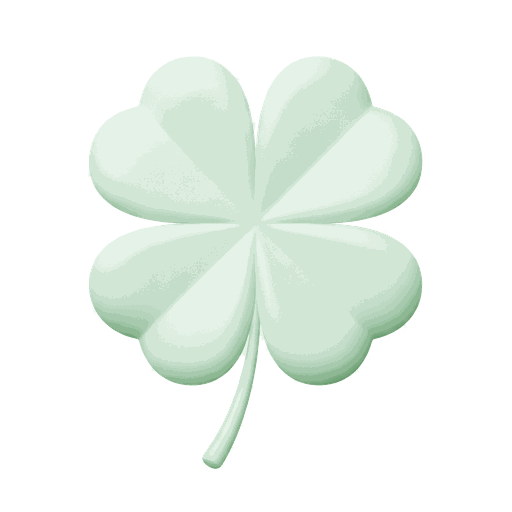
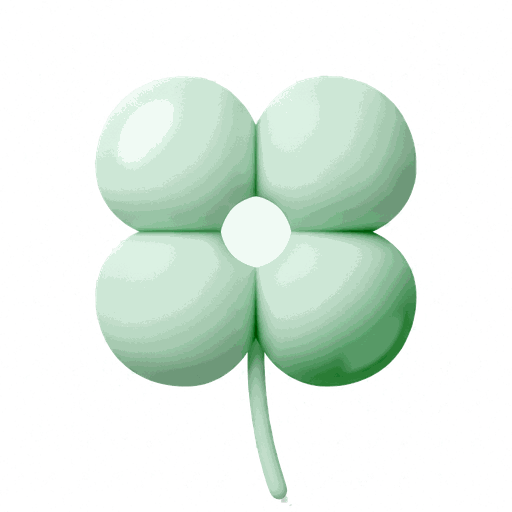
㉛ 클로버 — 성공 그림 교체 · 칸 수만큼 네잎 · 가장자리 스와이프 차단 (REQ-15·16·17)
- REQ-15: lucky.v1.png 을 2차 후보 톤 조정본(43,404B)으로 교체. 게임 합계 82,720B
- REQ-16 §1: 네잎 = 담은 칸 수 − 1. 화면이 gained 를 신고하고 서버는
  MAX_GAIN_PER_CLEAR(4) × 인정 횟수로 자른다. 「10」 밑에 +n. gained 가 없는
  옛 화면은 조합당 1장으로 친다
- REQ-17: 판이 도는 동안 좌우 24px 에서 시작한 touchstart 를 삼킨다(passive:false).
  가드는 화면 진입에서 arm, pushState 실패는 console.warn 으로 드러낸다.
  REQ-16 §2(진단 띠·여유분 2칸)는 REQ-17 이 대체해 넣지 않았다

diff --git a/public/games/clover/game.js b/public/games/clover/game.js
@@ -84,6 +84,7 @@ const play = {
   segMs: 0,        // 이번 구간 길이
   total: 0,        // 서버가 들고 있는 누적 점수
   seg: 0,          // 이번 구간에 맞춘 횟수
+  gain: 0,         // 이번 구간에 얻은 네잎 — 조합마다 담은 칸 수 − 1 (REQ-16)
   comboBest: 0,
   combo: 0,
   lastClear: 0,
@@ -454,7 +455,11 @@ function resolve() {
   play.ptr = null;
   syncTray();
 
-  play.seg += 1; // 3칸이든 5칸이든 **1점** — 화면의 그림과 숫자를 맞춥니다
+  // 2칸 1장 · 3칸 2장 · 4칸 3장 · 5칸 4장(REQ-16). 늘 1장이면 작은 수 가중으로
+  // 3~4칸 조합을 기본으로 만들어 놓고도 2칸만 찾는 편이 이득이 됩니다.
+  const gain = gone.length - 1;
+  play.seg += 1;
+  play.gain += gain;
   syncHud();
 
   // ① 고른 클로버들이 가운데 한 점으로 모입니다
@@ -483,7 +488,7 @@ function resolve() {
   });
 
   // ② 한 덩이로 뭉친 네잎이 솟아 점수로 날아갑니다
-  if (drawable) flyMerged(cx, cy, cs);
+  if (drawable) flyMerged(cx, cy, cs, gain);
 
   // ③ 판은 기다리지 않습니다
   setTimeout(() => {
@@ -506,12 +511,12 @@ function resolve() {
 }
 
 /** 합쳐진 「10」 — 판 밖으로 나가야 해서 body 에 붙입니다 */
-function flyMerged(cx, cy, cs) {
+function flyMerged(cx, cy, cs, gain) {
   const size = Math.max(cs * 2.2, 78);
   const node = document.createElement("div");
   node.className = "cv-merge";
   node.style.cssText = `left:${cx}px;top:${cy}px;width:${size}px;height:${size}px;font-size:${size}px`;
-  node.innerHTML = `<div class="cv-merge__b">${STEM}<img class="cv-merge__head" src="${IMG_LUCKY}" alt=""><b>10</b></div>`;
+  node.innerHTML = `<div class="cv-merge__b">${STEM}<img class="cv-merge__head" src="${IMG_LUCKY}" alt=""><b>10</b><i class="cv-merge__gain">+${gain}</i></div>`;
   document.body.append(node);
 
   const tgt = $("#cvScore").getBoundingClientRect();
@@ -648,7 +653,7 @@ function syncTray() {
 }
 
 function syncHud() {
-  $("#cvScore").textContent = String(play.total + play.seg);
+  $("#cvScore").textContent = String(play.total + play.gain);
   const hot = performance.now() - play.lastClear < COMBO_MS && play.combo > 1;
   $("#cvCombo").textContent = hot ? `${play.combo}번째` : "—";
   $("#cvCombo").classList.toggle("hud__value--accent", hot);
@@ -733,6 +738,29 @@ const backGuard = createBackGuard({
   onLeave: leaveNow,
 });
 
+/**
+ * 가장자리에서 시작한 터치를 삼킵니다(REQ-17 §1) — 판이 도는 동안만.
+ *
+ * 위 가드는 `popstate` 로 잡는데, 아이폰 16 Pro Safari 에서는 **판이 도는 중에도 확인창이
+ * 한 번도 안 떴습니다**(2026-09-09 Master 확인). 제스처가 `popstate` 를 거치지 않는다는
+ * 뜻이라, 그 앞에서 막을 수 있는 수단이 이것 하나 남았습니다.
+ *
+ * ⚠ **iOS 에서 먹는지는 확인하지 못했습니다** — Chromium 은 Safari 의 가장자리 제스처를
+ *    재현하지 못합니다. 실기기에서 ① 스와이프가 막히는가 ② **첫 열·끝 열 드래그가 살아
+ *    있는가**를 함께 봐야 합니다. 조작이 죽으면 밴드를 12px 로 좁히거나 이것을 뺍니다.
+ * ⚠ `passive: false` 가 아니면 `preventDefault` 가 아무 일도 하지 않습니다.
+ *    드래그는 `pointerdown` + `setPointerCapture` 가 먼저 잡으므로 여기서 막히지 않습니다.
+ */
+const EDGE = 24;
+addEventListener("touchstart", (e) => {
+  if (!play.running) return;
+  const t = e.touches?.[0];
+  if (!t) return;
+  if (t.clientX <= EDGE || t.clientX >= innerWidth - EDGE) {
+    if (e.cancelable) e.preventDefault();
+  }
+}, { passive: false });
+
 $("#cvExit").addEventListener("click", askExit);
 $("#cvExitStay").addEventListener("click", () => { $("#cvExitAsk").hidden = true; });
 $("#cvExitGo").addEventListener("click", () => {
@@ -751,6 +779,9 @@ requestAnimationFrame(drawFx);
 
 async function loadReady() {
   stopPlay();
+  // 화면에 들어오자마자 켭니다(REQ-17 §2-2). 판 시작에서 켜면 시작 화면에서 민 것을
+  // 못 잡습니다. 붙잡는 판단은 isPlaying 이라 판이 안 돌 때는 그대로 내보냅니다.
+  backGuard.arm();
   showScreen("ready");
   document.body.classList.remove("cv-playing");
   clearRewards();
@@ -793,6 +824,7 @@ function startSegment(round) {
 
   play.total = round.score ?? 0;
   play.seg = 0;
+  play.gain = 0;
   play.segMs = round.play_ms ?? 90000;
 
   if (!round.resumed) {
@@ -824,8 +856,6 @@ function startSegment(round) {
 
   syncTray();
   syncHud();
-
-  backGuard.arm(); // 판이 도는 동안만 뒤로가기를 붙잡습니다
 
   play.clock?.stop();
   play.clock = countdown({
@@ -865,13 +895,14 @@ async function endSegment() {
 
   await run.answer({
     cleared: play.seg,
+    gained: play.gain,
     combo_best: play.comboBest,
     played_ms: play.segMs,
   });
 }
 
 function pauseText() {
-  const found = play.total + play.seg;
+  const found = play.total + play.gain;
   return {
     sub: found > 0
       ? "이어하면 지금 판을 그대로 15초 더 찾습니다 — 찾은 네잎은 그대로 남습니다"

diff --git a/src/games/arcade/clover.js b/src/games/arcade/clover.js
@@ -2,7 +2,8 @@
  * ㉛ 행운의 클로버 — ENDLESS
  *
  * 붙어 있는 클로버를 손가락으로 쓸어 담아 합을 10으로 맞춥니다. 맞는 순간 담은 것들이
- * 한 덩이로 합쳐져 네잎 클로버 한 장이 됩니다. 90초 동안 몇 장을 찾는지가 기록입니다.
+ * 한 덩이로 합쳐져 네잎 클로버가 됩니다 — **담은 칸 수 − 1 장**(2칸 1장 … 5칸 4장, REQ-16).
+ * 90초 동안 몇 장을 찾는지가 기록입니다.
  * 기획: ../reward-minigame-research/plans/2026-09-04/PLAN-38_열까지.md · docs/clover-game.md
  *
  * ── 이 spec 이 하는 일은 다른 게임과 다릅니다 ─────────────────────────────
@@ -11,7 +12,7 @@
  * 네트워크 왕복이 그대로 얹힙니다**(기획 28절이 640ms → 278ms 로 줄여 놓은 값입니다).
  *
  * 그래서 REQ-10 결정 ㉒ 로 갑니다 — **서버는 첫 판을 시드하고, 판정은 화면이 하고,
- * 끝에 「10을 몇 번 맞췄는가」만 신고받습니다.**
+ * 끝에 「10을 몇 번 맞췄는가」와 「네잎을 몇 장 얻었는가」만 신고받습니다.**
  *
  * ⚠ **이 구조가 지금 안전한 이유는 「보상이 없어서」입니다.** 점수를 위조해서 얻을 수
  *    있는 것이 순위 표시뿐입니다. 보상을 붙이는 날(SYS-05) **서버가 한 수마다 판정하거나
@@ -128,7 +129,7 @@ function initExt(meta) {
   meta.ext = {
     ...(meta.ext ?? {}),
     board: makeBoard(),
-    score: 0, // 찾은 네잎 = 10을 맞춘 횟수
+    score: 0, // 찾은 네잎 — 조합마다 담은 칸 수 − 1 장
     segments: 0, // 90초 한 판 + 이어하기 15초들
     combo_best: 0,
     played_ms: 0,
@@ -196,7 +197,11 @@ export const spec = {
   },
 
   /**
-   * 한 구간이 끝났습니다. answer = `{ cleared, combo_best, played_ms }`
+   * 한 구간이 끝났습니다. answer = `{ cleared, gained, combo_best, played_ms }`
+   *
+   * `cleared` 는 10을 맞춘 **횟수**, `gained` 는 얻은 **네잎 장수**입니다. 둘을 나눈 이유는
+   * 점수가 칸 수에 따라 달라서입니다(REQ-16) — 길게 이을수록 많이 받아야 3~4칸 조합을
+   * 찾을 이유가 생깁니다. 상한도 두 겹입니다: 횟수는 초당 2회, 장수는 한 조합당 4장.
    *
    * **항상 fatal 입니다** — 시간이 다한 것은 실패가 아니라 소진이고, 소진이라야
    * 「광고 보고 15초 더 찾기」 자리가 열립니다(⑳ 슥슥 긁기와 같은 처리).
@@ -210,12 +215,22 @@ export const spec = {
     const cap = clearCap(roundNo, sinceIssuedMs);
     const cleared = Math.min(reported, cap);
 
+    // 장수 — 한 조합이 줄 수 있는 최대는 MAX_GAIN_PER_CLEAR(5칸 − 1) 장입니다.
+    // `gained` 가 없으면 그 조합들을 전부 2칸으로 칩니다 — 이 필드를 모르는 옛 화면이
+    // 캐시에 남아 있어도 점수가 0 이 되지 않습니다.
+    const graw = a.gained === undefined ? cleared : Number(a.gained);
+    const greported = Number.isInteger(graw) && graw >= 0 ? graw : 0;
+    const gainCap = cleared * C.MAX_GAIN_PER_CLEAR;
+    const gained = Math.min(greported, gainCap);
+    const overGain = greported > gainCap;
+
     // 숫자가 아니거나 사람 손으로 불가능한 값이면 그 판을 이상치로 표시합니다.
     // 판을 끊지는 않습니다 — 끊으면 통신이 튀었을 때 정상 이용자의 판이 날아갑니다.
-    const suspect = !Number.isInteger(raw) || raw < 0 || reported > cap;
-    if (reported > cap) ext.capped = (ext.capped ?? 0) + 1;
+    const suspect = !Number.isInteger(raw) || raw < 0 || reported > cap
+      || !Number.isInteger(graw) || graw < 0 || overGain;
+    if (reported > cap || overGain) ext.capped = (ext.capped ?? 0) + 1;
 
-    ext.score = (ext.score ?? 0) + cleared;
+    ext.score = (ext.score ?? 0) + gained;
     ext.segments = (ext.segments ?? 0) + 1;
     ext.played_ms = (ext.played_ms ?? 0) + segmentMs(roundNo);
 
@@ -230,7 +245,8 @@ export const spec = {
       suspect,
       data: {
         cleared,
-        capped: reported > cap,
+        gained,
+        capped: reported > cap || overGain,
         ...viewOf(ext),
       },
     };

diff --git a/public/shared/backguard.js b/public/shared/backguard.js
@@ -6,6 +6,11 @@
  * 끄는 게임에서는 판 위를 쓸어 담는 동작이 곧 그 제스처가 됩니다 — 아이폰 16 Pro 에서
  * 실제로 나갔습니다(2026-09-08).
  *
+ * ⚠ **iOS 가장자리 스와이프는 이 가드로 못 잡습니다** — 판이 도는 중에도 확인창이 한 번도
+ *    뜨지 않았습니다(2026-09-09 · 아이폰 16 Pro). 제스처가 `popstate` 를 거치지 않습니다.
+ *    그 대책은 게임 쪽 가장자리 `touchstart` 차단입니다(㉛ `game.js`). 이 가드는 **브라우저
+ *    뒤로가기 버튼용으로 남깁니다**(REQ-17 §2-1).
+ *
  * ⚠ **제스처 자체는 못 막습니다.** 좌우 여백을 24px 로 넓혀 가장자리 띠를 피해 보았지만
  *    실기기에서 그대로 넘어갔습니다. 그래서 **가더라도 페이지를 안 떠나게** 합니다 —
  *    방문 기록을 한 칸 밀어 넣어 두고, 뒤로가기가 오면 다시 밀어 넣습니다.
@@ -36,9 +41,11 @@ export function createBackGuard({ isPlaying, onCaught, onLeave }) {
     try {
       history.pushState({ cvGuard: 1 }, "");
       return true;
-    } catch {
+    } catch (e) {
       // 기록을 못 밀어 넣는 환경이면 가드를 켜지 않습니다 — 켠 척하면
       // 뒤로가기를 잡지도 못하면서 나가기만 막는 최악이 됩니다.
+      // 다만 **조용히 꺼지면 안 됩니다** — 같은 증상이 다시 나오면 여기부터 봅니다(REQ-17 §2-3).
+      console.warn("[backguard] 뒤로가기 가드를 켜지 못했습니다:", e);
       return false;
     }
   };
@@ -56,7 +63,7 @@ export function createBackGuard({ isPlaying, onCaught, onLeave }) {
   });
 
   return {
-    /** 판 시작에서 부릅니다. 두 번 불러도 기록은 한 칸만 쌓입니다 */
+    /** 화면에 들어올 때 부릅니다. 두 번 불러도 기록은 한 칸만 쌓입니다 */
     arm() {
       if (armed) return;
       armed = push();

diff --git a/public/shared/base.css b/public/shared/base.css
@@ -3767,6 +3767,13 @@ a.hubcard:focus-visible { outline: 2px solid var(--t); outline-offset: 2px; }
     .02em .02em 0 #12503f, -.02em .02em 0 #12503f, .02em -.02em 0 #12503f, -.02em -.02em 0 #12503f,
     0 .04em .05em rgba(0, 0, 0, .5);
 }
+/* 「10」 밑의 +n — 몇 장을 얻었는지 그 자리에서 보여야 「길게 이으면 더 준다」가 그림으로 전해집니다(REQ-16) */
+.cv-merge__gain {
+  position: absolute; left: 50%; top: 76%; transform: translateX(-50%); z-index: 4;
+  padding: .055em .13em; border-radius: 999px; background: var(--mint); color: #0b3018;
+  font-family: var(--mono); font-weight: 700; font-style: normal; font-size: .155em; line-height: 1.25;
+  letter-spacing: -.01em; white-space: nowrap; box-shadow: 0 .02em .05em rgba(0, 0, 0, .45);
+}
 
 /* ── 배너 광고 자리 ──────────────────────────────────────── */
 .cv-banner {

diff --git a/public/games/clover/index.html b/public/games/clover/index.html
@@ -41,7 +41,8 @@
           <!-- 설명은 질문 하나에 한 줄씩. 줄서기 4분·엄지 하나인 사람이 훑어 읽습니다 -->
           <p class="footnote">
             붙어 있는 클로버를 손가락으로 <b>쓸어 담습니다</b>.<br>
-            담은 수의 합이 딱 <b>10</b>이 되면 네잎 클로버 한 장이 나옵니다.<br>
+            담은 수의 합이 딱 <b>10</b>이 되면 네잎 클로버가 나옵니다.<br>
+            <b>2칸이면 1장, 한 칸 더 이을 때마다 1장씩 더</b> — 길게 이을수록 많이 얻습니다.<br>
             <b>90초</b> 동안 몇 장을 찾는지가 오늘의 기록입니다.
           </p>
           <!-- 8절이 요구하는 「손해 없음」. 판 아래에 두면 한 번도 안 읽힙니다 -->

diff --git a/src/lib/config.js b/src/lib/config.js
@@ -1188,6 +1188,9 @@ export const ARCADE = {
     // 실측은 60초에 15~20회(초당 0.3회 안팎)입니다. **초당** 상한이라 판이 길어져도
     // 비율은 그대로이고 상한만 따라 올라갑니다. 넘으면 그 판을 이상치로 봅니다.
     MAX_CLEARS_PER_SEC: 2,
+    // 한 조합이 줄 수 있는 네잎의 최대 = WAY_MAX_LEN(5) − 1 (REQ-16).
+    // 점수를 「횟수」가 아니라 「담은 칸 수 − 1」로 주므로 장수 상한이 따로 필요합니다.
+    MAX_GAIN_PER_CLEAR: 4,
   },
 };
 

diff --git a/docs/clover-game.md b/docs/clover-game.md
@@ -53,7 +53,7 @@
 
 | 누가 | 무엇을 |
 | --- | --- |
-| **서버**(`src/games/arcade/clover.js`) | 첫 판 시드 · 구간마다 신고된 「10을 맞춘 횟수」 누적 · 상한 검사 · 순위 지표 |
+| **서버**(`src/games/arcade/clover.js`) | 첫 판 시드 · 구간마다 신고된 「얻은 네잎(담은 칸 수 − 1 의 합)」 누적 · 상한 검사 · 순위 지표 |
 | **화면**(`public/games/clover/game.js`) | 이어 담기 판정 · 낙하 · 리필 · 연출 · 90초 시계 |
 
 **지금 이 구조가 안전한 이유는 「보상이 없어서」입니다.** 점수를 위조해서 얻을 수 있는 것이
@@ -69,6 +69,7 @@
 오래 붙들고 있다가 큰 값을 신고하는 길을 막습니다).
 
 * 상한 = `경과 초 × MAX_CLEARS_PER_SEC(2)`. **초당** 상한이라 판이 길어져도 비율은 그대로입니다(실측 60초에 15~20회)
+* 장수는 한 조합당 `MAX_GAIN_PER_CLEAR(4)`(= 5칸 − 1)까지 — 인정된 횟수 × 4 가 장수 상한입니다(REQ-16)
 * 넘으면 **상한까지만 인정하고 그 런을 이상치(`suspect`)로 표시**합니다 — 순위에서 빠집니다
 * **판을 끊지는 않습니다.** 끊으면 통신이 튀었을 때 정상 이용자의 판이 날아갑니다
 
@@ -210,7 +211,9 @@
 | 3 | 프로토의 자체 광고 화면(`#adView`) | **공용 `ad.js` 목업 · 시청 15초** | `ad.js` 가 실제 SDK 연동 자리이고 31종이 같은 흐름을 씁니다. 시청 시간은 `TRIGGER_COPY.CLOVER_BOOST` 한 줄로 **이 게임만 15초**입니다(다른 30종은 5초 그대로 · 실측 확인). **닫기는 열어 둡니다** — 실제 보상형 광고가 그렇고, 중도 이탈 시 보상이 없습니다(2026-09-08 기획 정정) |
 | 4 | 프로토의 「확인용 — 광고 불러오기 실패 재현」 체크박스 | **넣지 않았습니다** | 요청서 지시 그대로입니다 |
 | 5 | 프로토의 나가기 확인(`#exitAsk`) | **넣었습니다**(REQ-11 · `#cvExitAsk`) | 처음에는 상단바가 있어 빼 두었는데, REQ-11 로 판이 도는 동안 상단바를 접으면서 **출구가 없어졌습니다** |
-| 6 | 성공 에셋 `lucky.v1.png` | **아직 없습니다 — 코드로 그린 SVG** | REQ-09(A-8) 대기. 오면 `game.js` 의 `luckySVG()` 를 지우고 파일을 참조하면 끝입니다 |
+| 6 | 성공 에셋 `lucky.v1.png` | **PNG 로 교체 완료** — 2차 후보 톤 조정본(43,404B · REQ-15) | 1차 SVG 는 지웠습니다. 숫자 가독은 몸통 밝기가 아니라 `.cv-merge b` 의 잉크 테두리가 만듭니다 |
+| 9 | 조합마다 1장 | **담은 칸 수 − 1 장**(2칸 1 · 3칸 2 · 4칸 3 · 5칸 4) · 「10」 밑에 `+n` | 늘 1장이면 3~4칸 조합을 찾을 이유가 없습니다(REQ-16 · Master 지적). 선형(=칸 수)은 2칸 두 번이 4칸 한 번과 동점이라 여전히 짧은 쪽이 이득입니다 |
+| 10 | 뒤로가기 가드만 | **+ 가장자리 24px `touchstart` 차단**(판이 도는 동안만) | iOS 가장자리 스와이프는 `popstate` 를 거치지 않았습니다(REQ-17). 가드는 브라우저 뒤로 버튼용으로 남깁니다. iOS 효과는 실기기 확인 대기 |
 | 7 | 에셋 256px | **512px 8bit 팔레트** | 합쳐진 「10」이 칸의 2.2배(약 89px CSS)라 3배 밀도에서 267px 이 필요합니다. 512 팔레트가 장당 18~21KB 라 줄일 이유가 없습니다(REP-04 §3) |
 | 8 | 「하루 3회 이어하기」(REQ-10 §5-2 물음) | **한 판 3회** | 엔진의 `boostsPerRun` 은 런 단위입니다. **날짜 단위 이어하기는 엔진에 없습니다** — §11 |
 
